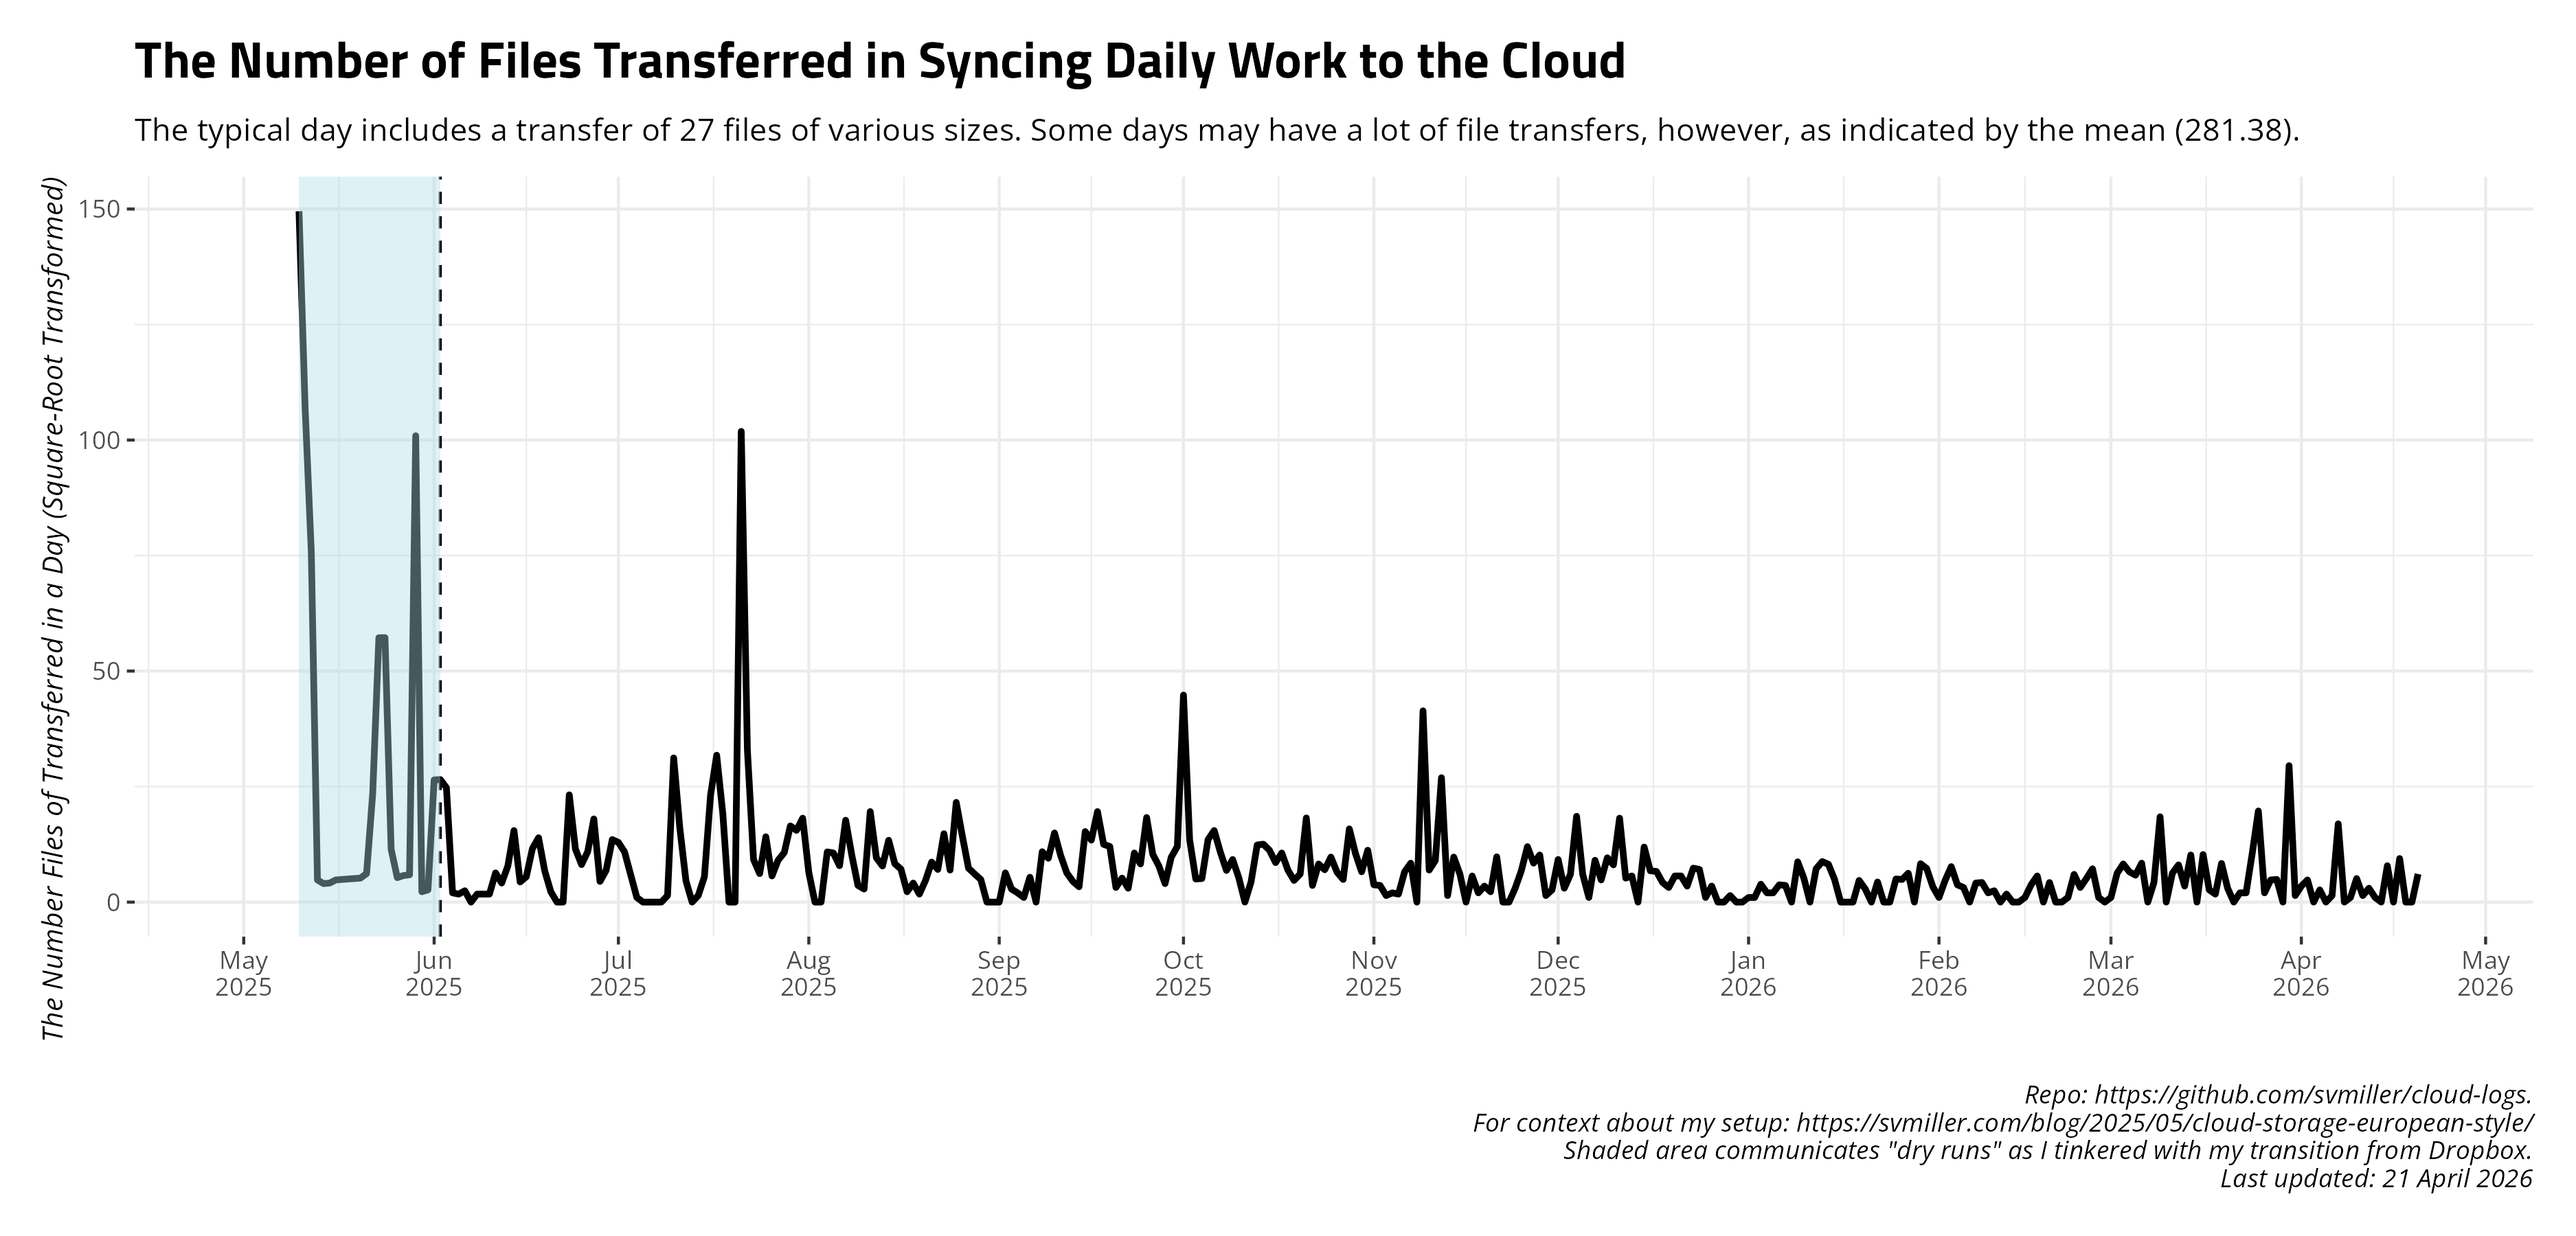
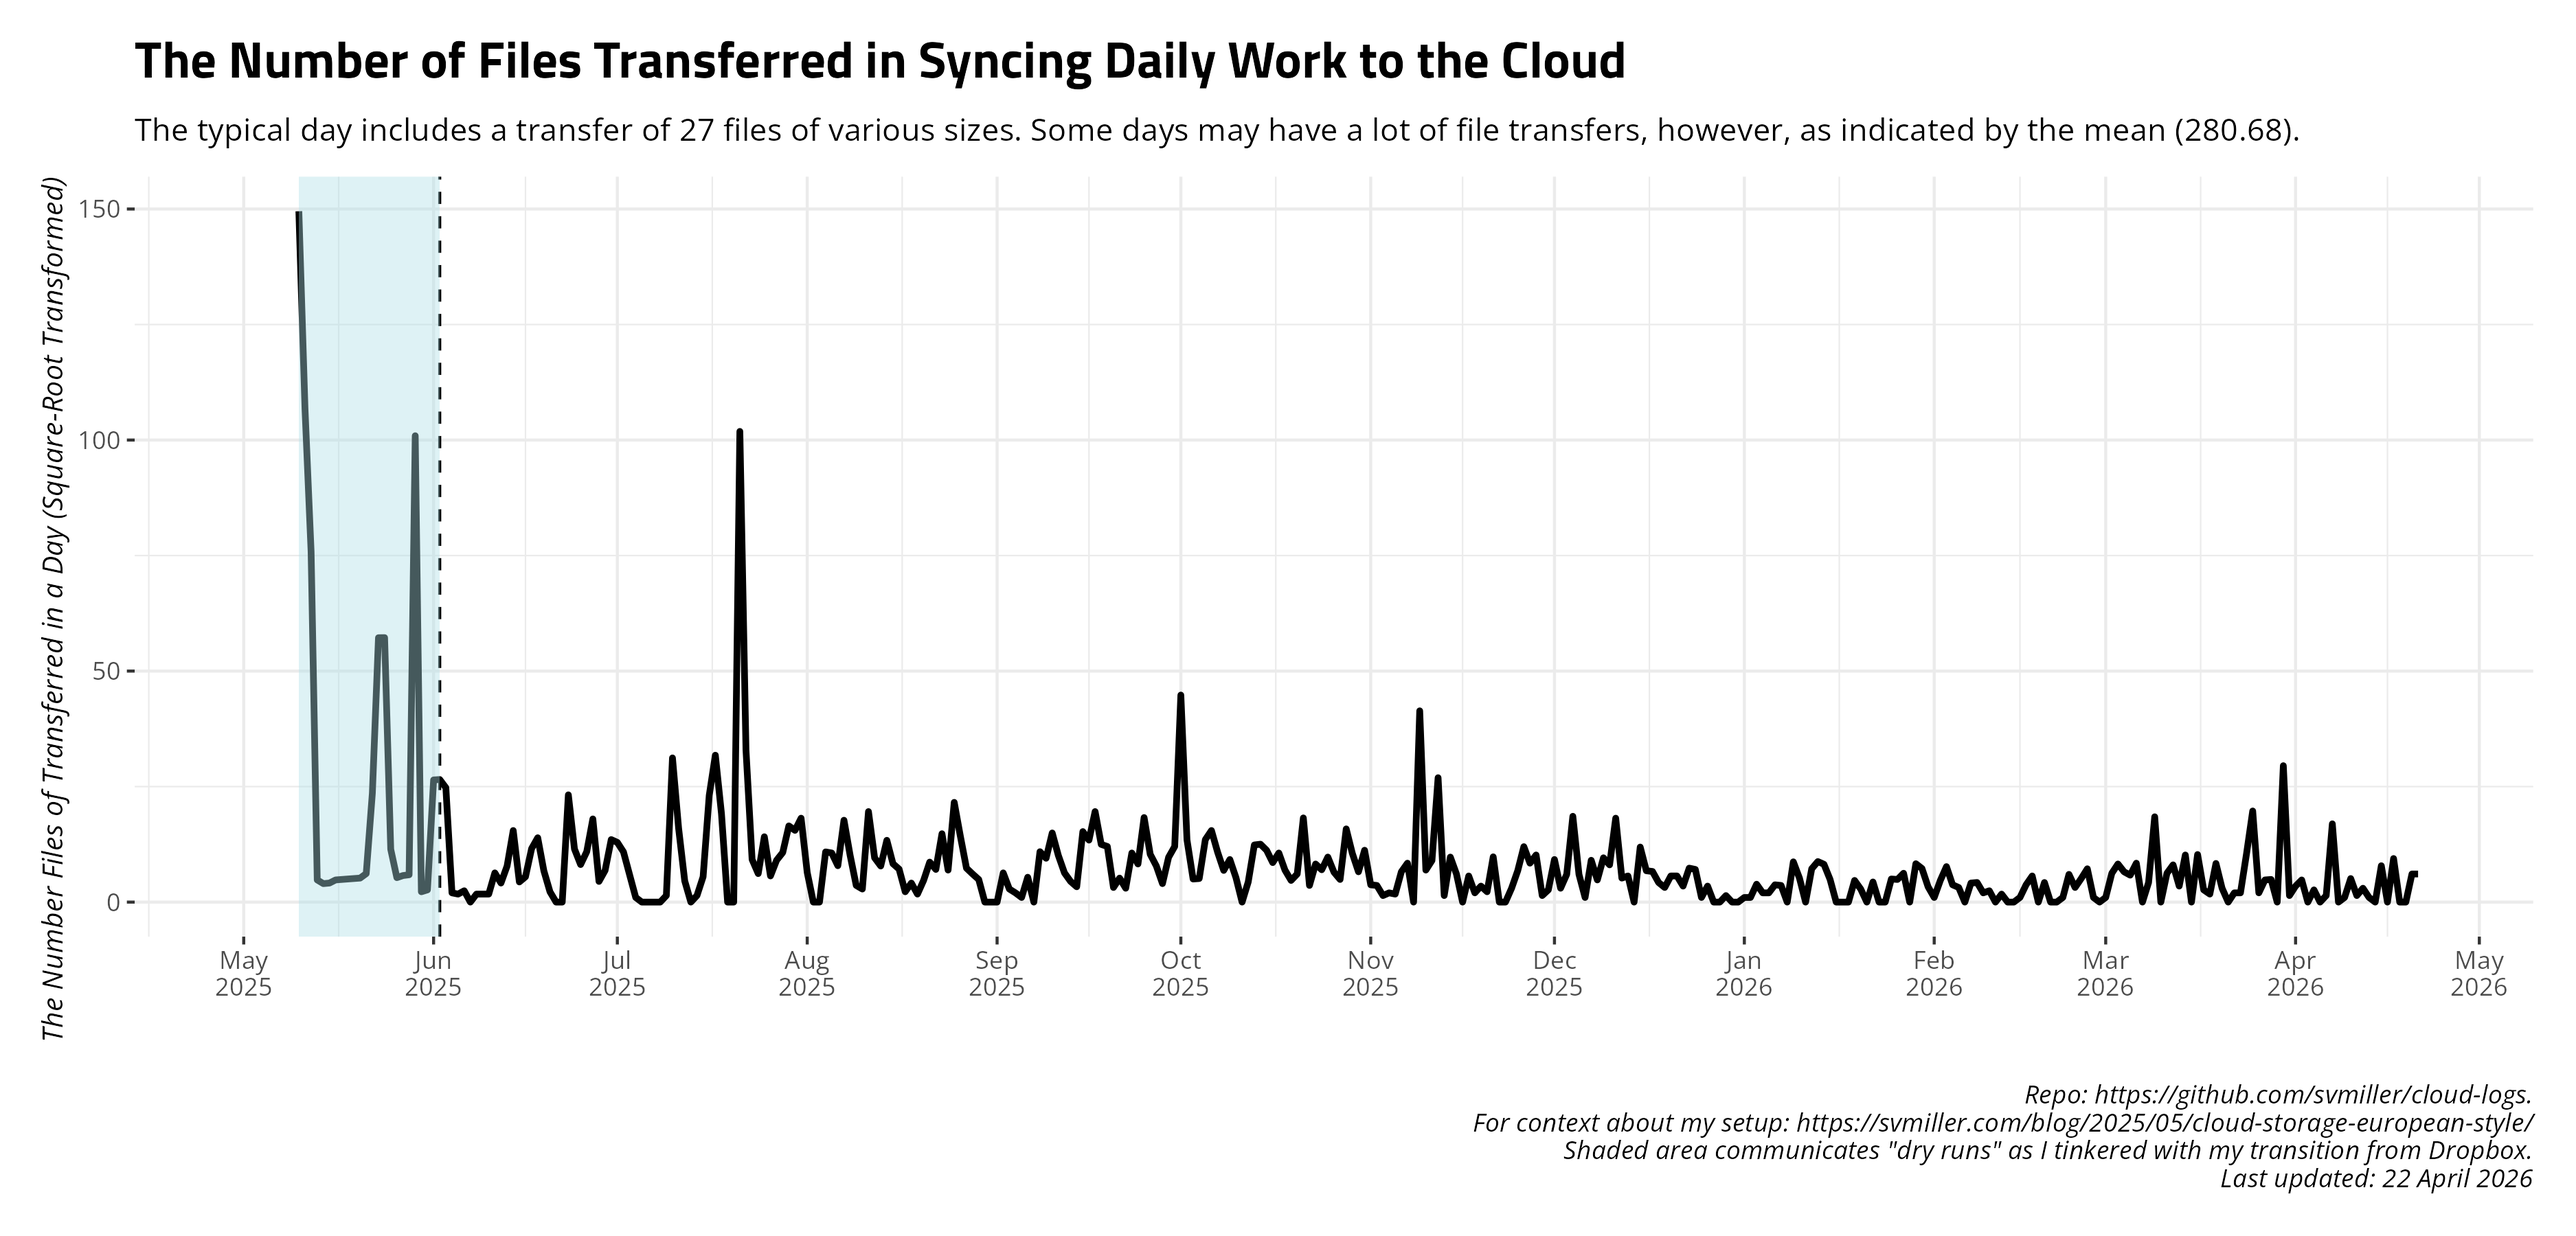
Date: 2026-04-22 09:00:30. Hi mom!

diff --git a/README.md b/README.md
@@ -27,17 +27,17 @@ and uploads to Github.
     #> # A tibble: 14 × 4
     #>    date       ftransfer stransfer   elapsed
     #>    <date>         <dbl> <chr>       <chr>  
-    #>  1 2026-04-07       287 <NA>        5m11.3s
-    #>  2 2026-04-08         0 <NA>        9m36.6s
-    #>  3 2026-04-09         1 882.068 KiB 5m10.4s
-    #>  4 2026-04-10        26 11.506 GiB  7m1.3s 
-    #>  5 2026-04-11         2 6.212 KiB   5m10.0s
-    #>  6 2026-04-12         9 1.208 MiB   5m14.0s
-    #>  7 2026-04-13         1 7.343 MiB   5m11.9s
-    #>  8 2026-04-14         0 <NA>        5m11.0s
-    #>  9 2026-04-15        62 19.695 MiB  4m46.0s
-    #> 10 2026-04-16         0 <NA>        5m9.8s 
-    #> 11 2026-04-17        89 369.474 KiB 5m33.8s
-    #> 12 2026-04-18         0 <NA>        5m13.0s
-    #> 13 2026-04-19         0 <NA>        5m11.6s
-    #> 14 2026-04-20        37 447.805 KiB 5m28.2s
+    #>  1 2026-04-08         0 <NA>        9m36.6s
+    #>  2 2026-04-09         1 882.068 KiB 5m10.4s
+    #>  3 2026-04-10        26 11.506 GiB  7m1.3s 
+    #>  4 2026-04-11         2 6.212 KiB   5m10.0s
+    #>  5 2026-04-12         9 1.208 MiB   5m14.0s
+    #>  6 2026-04-13         1 7.343 MiB   5m11.9s
+    #>  7 2026-04-14         0 <NA>        5m11.0s
+    #>  8 2026-04-15        62 19.695 MiB  4m46.0s
+    #>  9 2026-04-16         0 <NA>        5m9.8s 
+    #> 10 2026-04-17        89 369.474 KiB 5m33.8s
+    #> 11 2026-04-18         0 <NA>        5m13.0s
+    #> 12 2026-04-19         0 <NA>        5m11.6s
+    #> 13 2026-04-20        37 447.805 KiB 5m28.2s
+    #> 14 2026-04-21        37 48.112 MiB  5m16.4s
